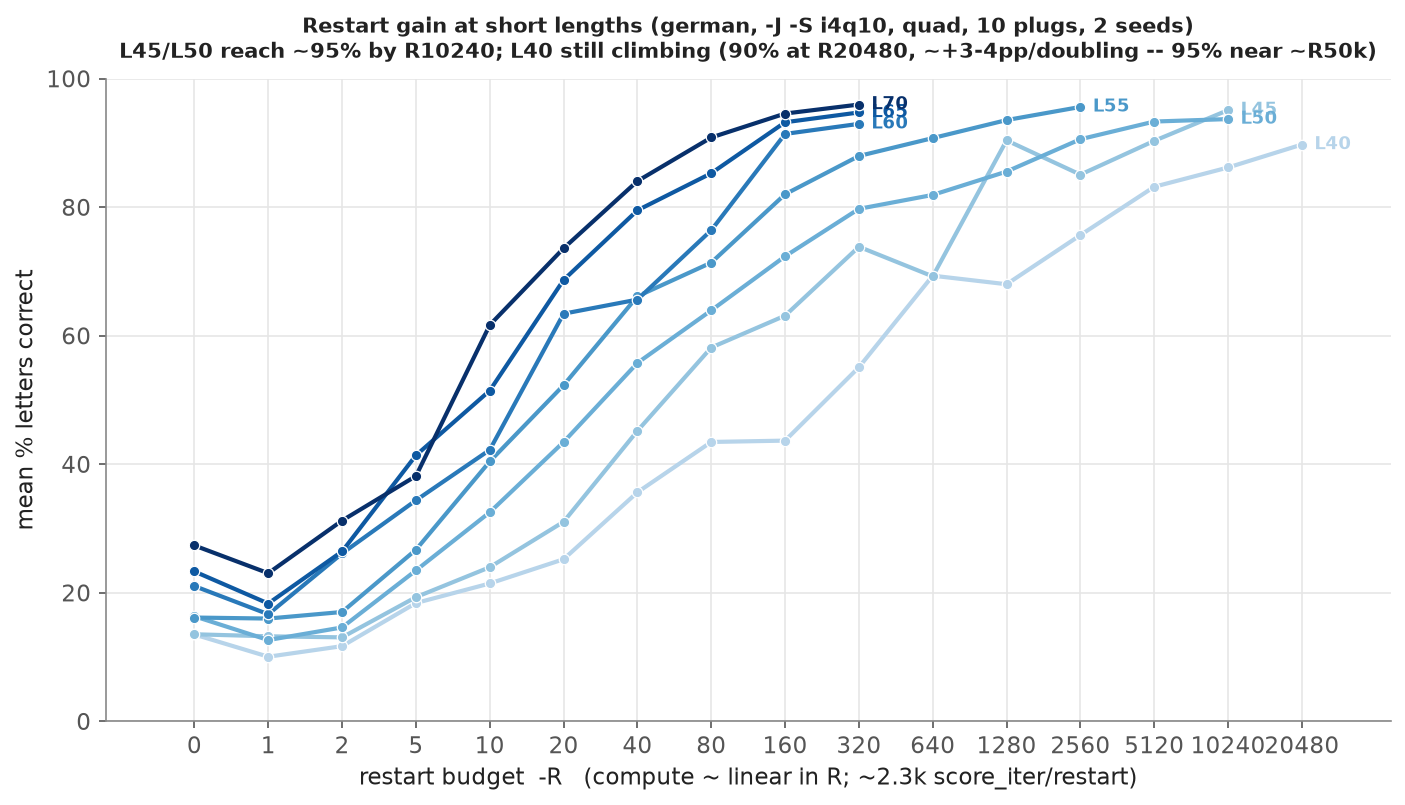
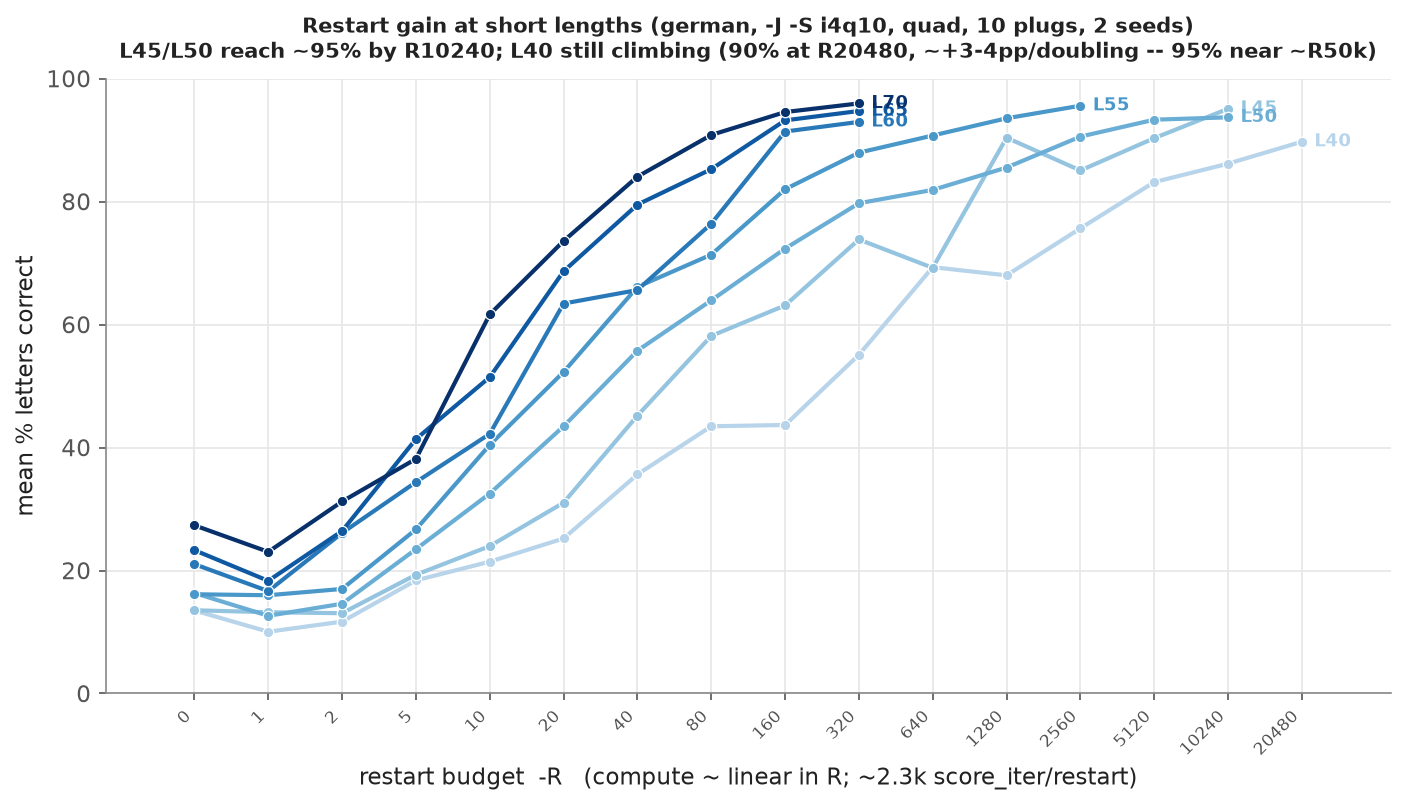
restart_gain plot: rotate x tick labels (10240/20480 were overlapping)
Claude-Session: https://claude.ai/code/session_014GftopEhYTR7xamwfhnPqt

diff --git a/eval/plot_results.py b/eval/plot_results.py
@@ -706,7 +706,7 @@ if RSW_HAVE:
         ax.annotate(f"L{L}", (lx[-1], ly[-1]), xytext=(6, 0), textcoords="offset points",
                     va="center", fontsize=8.5, color=color, fontweight="bold")
     ax.set_xticks(list(xpos.values()))
-    ax.set_xticklabels([str(R) for R in RSW_HAVE])
+    ax.set_xticklabels([str(R) for R in RSW_HAVE], rotation=45, ha="right", fontsize=8)
     ax.set_xlabel("restart budget  -R   (compute ~ linear in R; ~2.3k score_iter/restart)")
     ax.set_ylabel("mean % letters correct")
     ax.set_title("Restart gain at short lengths (german, -J -S i4q10, quad, 10 plugs, 2 seeds)\n"
